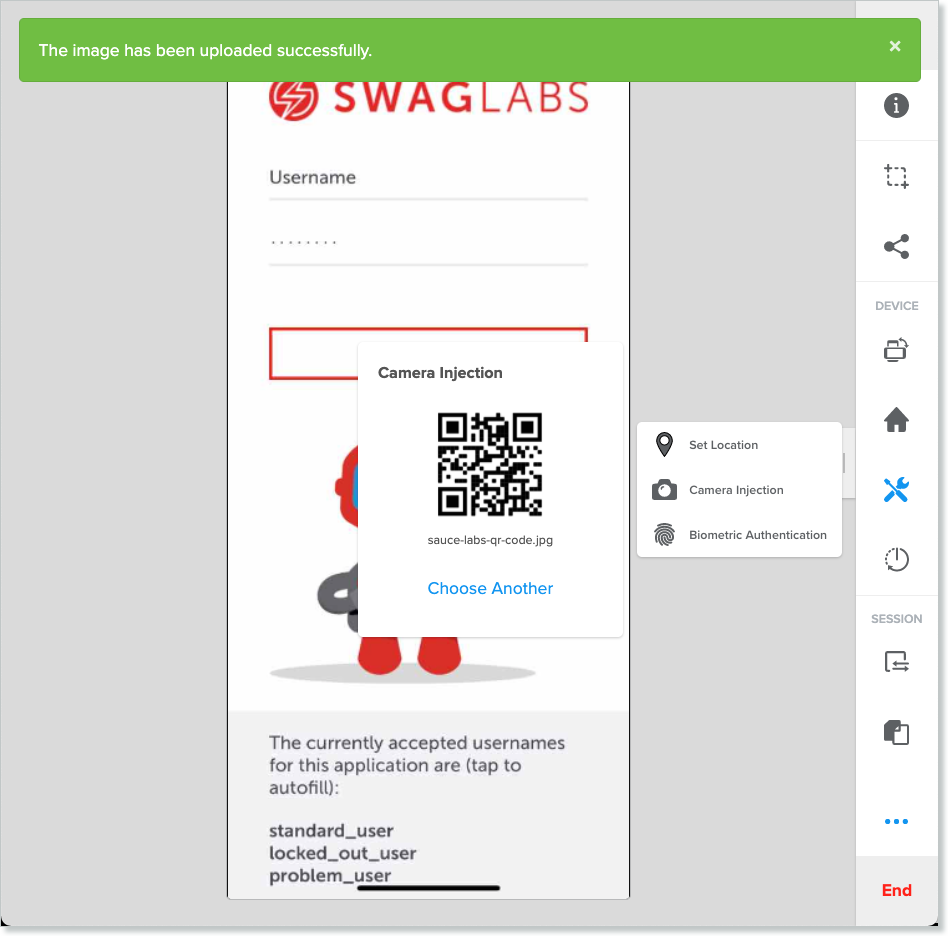
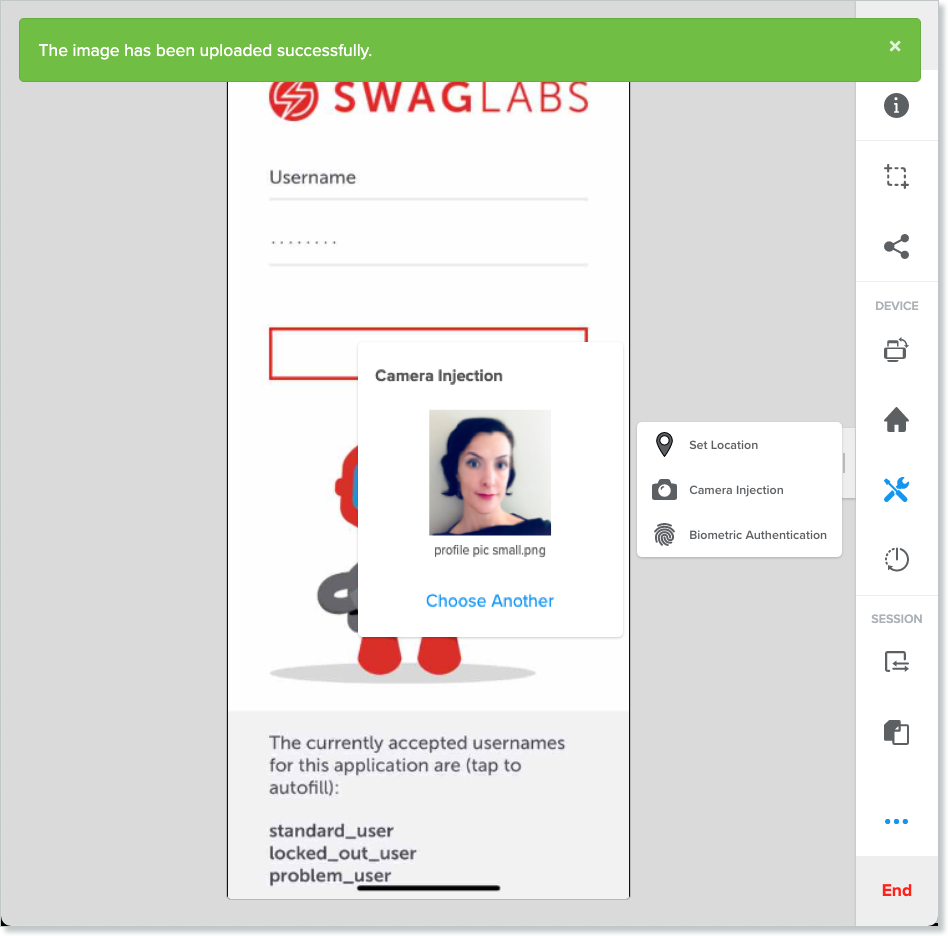
Updated camera image injection and biometric content

Changed region(s): [[0.3977, 0.3718, 0.5812, 0.6506]]

diff --git a/docs/mobile-apps/features/camera-image-injection.md b/docs/mobile-apps/features/camera-image-injection.md
@@ -10,7 +10,7 @@ import TabItem from '@theme/TabItem';
 
 <p><small><span className="sauceDBlue">Real Devices Only</span></small></p>
 
-Do you have a mobile app with the ability to take images on the device camera, then process or store them within the app (e.g., scanning/depositing a check on banking app)?
+Do you have a mobile app with the ability to take images on the device camera, then process or store them within the app (e.g., scanning/depositing a check in a banking app)?
 
 Camera image injection, also known as camera mocking, is a Sauce Labs Real Device Cloud (RDC) core feature that simulates taking a picture through your mobile app. It then allows you to test your app's camera-based functionality and deliver the best possible user experience.
 
@@ -68,17 +68,17 @@ For iOS devices, the camera can be configured with different outputs. We support
 
 Below are common use cases ideal for implementing Camera Image Injection in your tests.
 
-* **Scanning a Check for a Mobile Banking App Deposit**: Many mobile banking apps allow customers to deposit checks using their smartphone. The customer takes and uploads an image of their physical paper check, and the image is then submitted to the bank for processing.
-* **Using a QR Code to Link to an Embedded URL**: QR codes are often used as a way to bridge print media to digital. Users take a photo with a QR code reader app, the app scans the code and directs them to an embedded URL. For use cases that involve scanning barcodes or QR codes, your own application in testing must do the actual image processing. Camera Image Injection passes your uploaded image directly to your app as if it came from the device camera; it does not do any processing.
-* **Taking a Selfie for a User Profile Photo**: This could be taking a selfie or uploading a picture for apps that require a user profile photo. You can use Camera Image Injection to test image formats and sizes.
-* **Taking an Image to Store or Send via Mobile App**: Whether it’s a social media app or photo sharing, this use case can encompass many different scenarios. In its simplest form, it could be taking pictures from the front or back camera to send and/or archive within the app.
+* **Scanning a check for a mobile banking app deposit**: Many mobile banking apps allow customers to deposit checks using their smartphone. The customer takes and uploads an image of their physical paper check, and the image is then submitted to the bank for processing.
+* **Using a QR code to link to an embedded URL**: QR codes are often used as a way to bridge print media to digital. Users take a photo with a QR code reader app, the app scans the code and directs them to an embedded URL. For use cases that involve scanning barcodes or QR codes, your own application in testing must do the actual image processing. Camera Image Injection passes your uploaded image directly to your app as if it came from the device camera; it does not do any processing.
+* **Taking a selfie for a user profile photo**: This could be taking a selfie or uploading a picture for apps that require a user profile photo. You can use Camera Image Injection to test image formats and sizes.
+* **Taking an image to store or send via mobile app**: Whether it’s a social media app or photo sharing, this use case can encompass many different scenarios. In its simplest form, it could be taking pictures from the front or back camera to send and/or archive within the app.
 
 ## Live Testing
 
-During a live test, you'll be prompted in the UI to upload a photo that will be fed to your app, rather than using your device camera to take the photo.
+During a live test, you'll be prompted in Sauce Labs to upload a photo that will be fed to your app, rather than using your device camera to take the photo.
 
 1. In Sauce Labs, click **LIVE** and then click **Mobile App**.
-2. On the **App Selection** test page, hover over the test and then click **Settings**.
+2. On the **App Selection** page, hover over the test and then click **Settings**.
 
   <img src={useBaseUrl('img/live-testing/live-mobile-app-settings-nav.png')} alt="Mobile app settings navigation" width="650"/>
 
@@ -96,11 +96,11 @@ During a live test, you'll be prompted in the UI to upload a photo that will be 
 
 6. When you want to capture an image of the test, in the right toolbar, click **More Device Options** and then click **Camera Injection**.
 
-  <img src={useBaseUrl('img/live-testing/camera-injection-nav.png')} alt="Camera Injection navigation" width="650"/>
+  <img src={useBaseUrl('img/live-testing/camera-injection-nav.png')} alt="Camera Injection navigation" width="450"/>
 
 7. Click **Choose Image** and navigate to the image you want to use.
 
-  <img src={useBaseUrl('img/live-testing/live-mobile-app-camera-nav.png')} alt="Camera image injection navigation" width="450"/>
+  <img src={useBaseUrl('img/live-testing/camera-injection-choose.png')} alt="Choose a file" width="450"/>
 
   If the image upload is successful, you will see a thumbnail of the image and a successful upload message.
 
@@ -108,16 +108,35 @@ During a live test, you'll be prompted in the UI to upload a photo that will be 
 
 8. Activate the camera inside of your app. The device will show your uploaded image in the app as if the image was taken by the device camera. The image will continue to be available, should you go back to the camera during your test session, or you can upload another image and capture it with the camera.
 
+  <img src={useBaseUrl('img/live-testing/camera-injection-camera.png')} alt="Image in camera app" width="350"/>
+
 ### Testing with QR Codes
+You can use the camera image injection feature to upload QR codes for testing.
 
-When injecting an image with a QR Code or barcode, the image size in your preview may exceed the boundaries of the target scanner area, which would prevent your app from reading the code. In this scenario, you'd need to add padding to your uploaded image so that when it's scaled to full-screen, the QR Code will fit inside the scanning area limits and can be processed.
+1. In the live test window, in the right toolbar, click **More Device Options** and then click **Camera Injection**.
 
+2. Click **Choose Image** and navigate to the QR code file.
+
+  <img src={useBaseUrl('img/live-testing/camera-injection-qr-nav.png')} alt="QR file navigation" width="450"/>
+
+  If the image upload is successful, you will see a thumbnail of the image and a successful upload message.
+
+  <img src={useBaseUrl('img/live-testing/camera-injection-success.png')} alt="Camera image upload successful" width="450"/>
+
+
+#### Padding
+Sometimes when you upload a QR code image your app will not recognize it because it doesn't fit in the target area defined by your application. This is because image injection strictly overrides what is seen by the camera and your image will be scaled linearly to fit the camera image size as best it can. But this might not always be the same as what your application is expecting.
+
+<img src={useBaseUrl('img/live-testing/camera-injection-target-area.png')} alt="QR code target area example" width="300"/>
+<img src={useBaseUrl('img/live-testing/camera-injection-qr-too-big.png')} alt="QR code target area example" width="300"/>
+
+If your application only registers a code being read when it is within this target area, you will need to take this behavior into account when testing your application. Adding extra space (or "padding") around your image before uploading it for image injection will ensure that the QR code is within the target area that your application defines.
 
 ## Automated Testing
 
 During an automated test, you'll pass an image to the image injection endpoint. Image injection intercepts the camera input and replaces the camera output with the image file via the camera APIs. When the app requests an image from the device's camera, we inject your uploaded image into the response (the app doesn't know the difference).
 
-In your test script, you'll need to input the desired capabilities specific to Camera Image Injection (see below code snippets). The code will execute your image upload and opening of the device camera.
+In your test script, you'll need to input the desired capabilities specific to camera image injection (see below code snippets). The code will execute your image upload and opening of the device camera.
 
 1. First, you'll need add the camera instrumentation desired capability command,  `sauceLabsImageInjectionEnabled`, to your test script. This capability enables image injection functionality.
 
@@ -208,7 +227,7 @@ qrCodeImage = Base64.getEncoder().encodeToString(
 
 ## Common Errors
 
-Here are some common errors you may see in the course of testing with Camera Image Injection and how to resolve them.
+Here are some common errors you may see in the course of testing with camera image injection and how to resolve them.
 
 #### Error: `Image injection failed`
 

diff --git a/docs/mobile-apps/features/biometric-authentication.md b/docs/mobile-apps/features/biometric-authentication.md
@@ -28,28 +28,32 @@ We provide testing capabilities for mobile app biometric authentication (fingerp
 
 To enable biometric authentication for your app:
 
-1. Click **LIVE** > **Mobile App** to navigate to Sauce Labs real devices.
-2. If you haven't already, upload your app file.
-3. Hover over your app row and click **Settings**.
-4. Set **Biometrics Interception** to **Enabled**.
-5. Return to the app menu by clicking **Back to App Selection**.
-6. Start up your live test session:
-    1. Hover over your app and click **Choose Device**.
-    1. Choose an available device from the menu.
-    1. Click **Launch**.
+1. In Sauce Labs, click **LIVE** and then click **Mobile App**.
+2. On the **App Selection** page, hover over the test and then click **Settings**.
+
+  <img src={useBaseUrl('img/live-testing/live-mobile-app-settings-nav.png')} alt="Mobile app settings navigation" width="650"/>
+
+3. On the **Settings** page, ensure that **Biometrics Interception** is enabled and then return to the **App Selection** page.
+
+  <img src={useBaseUrl('img/live-testing/biometrics-enabled.png')} alt="Biometrics Interception - Enabled" width="650"/>
+
+4. On the **App Selection** test page, hover over the test and then click **Choose Device**.
+
+  <img src={useBaseUrl('img/live-testing/image-injection-choose-device.png')} alt="Image Injection - Choose Device" width="650"/>
+
+5. On the device selection page, hover over a device and then click **Launch**.
+
+  <img src={useBaseUrl('img/live-testing/image-injection-launch.png')} alt="Image Injection - Launch" width="650"/>
 
 To initiate a fingerprint or facial recognition action in your live test session:
 
-1. In the toolbar, click the **Authentication** fingerprint icon.
-2. Select a response:
-    * Select **PASS** to imitate successful authentication.
-    * Select **FAIL** to imitate unsuccessful authentication.  
+1. In the live test window, in the right toolbar, click **More Device Options** and then click **Biometric Authentication**.
 
-<img src={useBaseUrl('img/mobile-apps/biometric-auth-1.png')} alt="Biometric authorization live testing" width="200"/>
-<br/>
-<img src={useBaseUrl('img/mobile-apps/biometric-auth-2.gif')} alt="Biometric authorization live testing" width="650"/>
+  <img src={useBaseUrl('img/live-testing/biometric-toolbar.png')} alt="Image Injection - Launch" width="450"/>
 
-See [Live Mobile App Testing Toolbar](/mobile-apps/live-testing/live-mobile-app-testing/#app-settings) for more information.
+2. In the **Biometric Authentication** window, click **Pass** to imitate successful authentication or click **Fail** to imitate an unsuccessful authentication.
+
+    <img src={useBaseUrl('img/live-testing/biometric-nav.png')} alt="Biometric Authentication" width="450"/>
 
 
 ## Automated Testing
